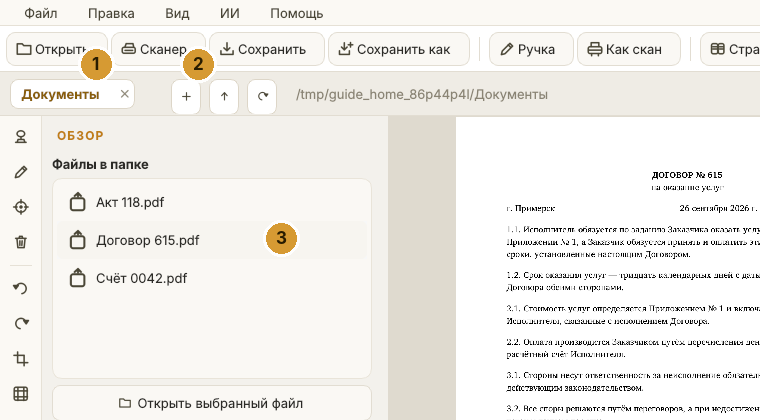
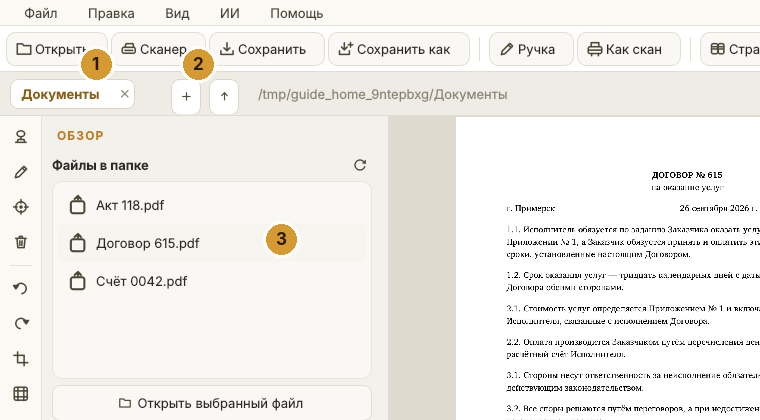
6.4.12: кнопка обновления списка файлов — в заголовке «Файлы в папке», стрелка по кругу без рамки
Claude-Session: https://claude.ai/code/session_01S2yJaDiaX6YUxFfadFNC79

diff --git a/stamp_studio_canon.py b/stamp_studio_canon.py
@@ -393,6 +393,9 @@ QListWidget#guidenav::item:selected { background: #2c3145; color: #e8b04b; }
 QListWidget#guidenav::item:hover { background: #232735; }
 QToolBar { padding: 4px 6px; spacing: 3px; }
 QToolBar QToolButton { min-height: 32px; max-height: 32px; padding: 0 6px; }
+QToolButton#ghost { background: transparent; border: none; border-radius: 12px; padding: 0; min-width: 0; min-height: 0; }
+QToolButton#ghost:hover { background: rgba(214, 154, 51, 0.22); }
+QToolButton#ghost:pressed { background: rgba(214, 154, 51, 0.40); }
 QPushButton#aiact { text-align: left; padding: 6px 12px; }
 QDialog#embedded { background: transparent; }
 QToolBar#tools { background: #171a22; border: none; border-right: 1px solid #262b39; padding: 6px 5px; spacing: 3px; }
@@ -465,6 +468,9 @@ QListWidget#guidenav::item:selected { background: #fbefd3; color: #8a5f0a; }
 QListWidget#guidenav::item:hover { background: #efeadf; }
 QToolBar { padding: 4px 6px; spacing: 3px; }
 QToolBar QToolButton { min-height: 32px; max-height: 32px; padding: 0 6px; }
+QToolButton#ghost { background: transparent; border: none; border-radius: 12px; padding: 0; min-width: 0; min-height: 0; }
+QToolButton#ghost:hover { background: rgba(214, 154, 51, 0.22); }
+QToolButton#ghost:pressed { background: rgba(214, 154, 51, 0.40); }
 QPushButton#aiact { text-align: left; padding: 6px 12px; }
 QDialog#embedded { background: transparent; }
 QToolBar#tools { background: #fbf9f4; border: none; border-right: 1px solid #e6e1d6; padding: 6px 5px; spacing: 3px; }
@@ -511,7 +517,7 @@ QProgressBar::chunk { background: #d69a33; border-radius: 3px; }
 SETTINGS_JSON = os.path.join(LIB_DIR, "settings.json")
 
 # ---------------------------------------------------------------- версия и обновления
-APP_VERSION = "6.4.11"
+APP_VERSION = "6.4.12"
 EDITION = "canon"                 # main — основная, canon — для сканеров Canon
 APP_TITLE = "Stamp Studio" + (" Canon" if EDITION == "canon" else "")
 GITHUB_URL = "https://github.com/alegawhats-del/StampStudio"
@@ -1567,6 +1573,15 @@ def draw_icon(kind: str, color: str, size: int = 64) -> QIcon:
             x1 = 8 + 4.2 * _m.cos(ang); y1 = 8 + 4.2 * _m.sin(ang)
             x2 = 8 + 5.8 * _m.cos(ang); y2 = 8 + 5.8 * _m.sin(ang)
             line(x1, y1, x2, y2)
+    elif kind == "refresh":
+        path = QPainterPath()
+        path.arcMoveTo(3.0 * u, 3.0 * u, 10.0 * u, 10.0 * u, 50)
+        path.arcTo(3.0 * u, 3.0 * u, 10.0 * u, 10.0 * u, 50, 290)
+        p.drawPath(path)
+        p.setBrush(QBrush(c))
+        p.setPen(Qt.NoPen)
+        p.drawPolygon([QPointF(13.9 * u, 2.6 * u), QPointF(13.9 * u, 7.0 * u), QPointF(9.7 * u, 6.2 * u)])
+        p.setBrush(Qt.NoBrush)
     elif kind == "rot_left":
         path = QPainterPath()
         path.moveTo(3.4 * u, 7.6 * u)
@@ -7528,15 +7543,6 @@ class MainWindow(QMainWindow):
         self._themed_buttons.append((b_up, "up", False))
         row.addWidget(b_up, 0)
 
-        b_ref = QPushButton()
-        b_ref.setFixedSize(30, 30)
-        b_ref.setToolTip("Обновить список файлов  (F5)\nСписок обновляется и сам, когда в папке что-то меняется")
-        b_ref.setIconSize(QSize(13, 13))
-        b_ref.setShortcut(QKeySequence("F5"))
-        b_ref.clicked.connect(lambda: self.reload_files(manual=True))
-        self._themed_buttons.append((b_ref, "rot_right", False))
-        row.addWidget(b_ref, 0)
-
         row.addSpacing(6)
         self.lbl_path = QLabel("")
         self.lbl_path.setObjectName("path")
@@ -7592,7 +7598,21 @@ class MainWindow(QMainWindow):
         tl.setContentsMargins(0, 0, 0, 0)
         tl.setSpacing(6)
         cap_files = QLabel("<b>Файлы в папке</b>")
-        tl.addWidget(cap_files)
+        cap_row = QHBoxLayout()
+        cap_row.setContentsMargins(0, 0, 2, 0)
+        cap_row.addWidget(cap_files, 1)
+        b_ref = QToolButton()
+        b_ref.setObjectName("ghost")
+        b_ref.setAutoRaise(True)
+        b_ref.setCursor(Qt.PointingHandCursor)
+        b_ref.setFixedSize(24, 24)
+        b_ref.setIconSize(QSize(16, 16))
+        b_ref.setToolTip("Обновить список файлов  (F5)\nСписок обновляется и сам, когда в папке что-то меняется")
+        b_ref.setShortcut(QKeySequence("F5"))
+        b_ref.clicked.connect(lambda: self.reload_files(manual=True))
+        self._themed_toolbtns.append((b_ref, "refresh"))
+        cap_row.addWidget(b_ref, 0)
+        tl.addLayout(cap_row)
 
         self.file_list = QListWidget()
         self.file_list.setAlternatingRowColors(True)

diff --git a/stamp_studio.py b/stamp_studio.py
@@ -393,6 +393,9 @@ QListWidget#guidenav::item:selected { background: #2c3145; color: #e8b04b; }
 QListWidget#guidenav::item:hover { background: #232735; }
 QToolBar { padding: 4px 6px; spacing: 3px; }
 QToolBar QToolButton { min-height: 32px; max-height: 32px; padding: 0 6px; }
+QToolButton#ghost { background: transparent; border: none; border-radius: 12px; padding: 0; min-width: 0; min-height: 0; }
+QToolButton#ghost:hover { background: rgba(214, 154, 51, 0.22); }
+QToolButton#ghost:pressed { background: rgba(214, 154, 51, 0.40); }
 QPushButton#aiact { text-align: left; padding: 6px 12px; }
 QDialog#embedded { background: transparent; }
 QToolBar#tools { background: #171a22; border: none; border-right: 1px solid #262b39; padding: 6px 5px; spacing: 3px; }
@@ -465,6 +468,9 @@ QListWidget#guidenav::item:selected { background: #fbefd3; color: #8a5f0a; }
 QListWidget#guidenav::item:hover { background: #efeadf; }
 QToolBar { padding: 4px 6px; spacing: 3px; }
 QToolBar QToolButton { min-height: 32px; max-height: 32px; padding: 0 6px; }
+QToolButton#ghost { background: transparent; border: none; border-radius: 12px; padding: 0; min-width: 0; min-height: 0; }
+QToolButton#ghost:hover { background: rgba(214, 154, 51, 0.22); }
+QToolButton#ghost:pressed { background: rgba(214, 154, 51, 0.40); }
 QPushButton#aiact { text-align: left; padding: 6px 12px; }
 QDialog#embedded { background: transparent; }
 QToolBar#tools { background: #fbf9f4; border: none; border-right: 1px solid #e6e1d6; padding: 6px 5px; spacing: 3px; }
@@ -511,7 +517,7 @@ QProgressBar::chunk { background: #d69a33; border-radius: 3px; }
 SETTINGS_JSON = os.path.join(LIB_DIR, "settings.json")
 
 # ---------------------------------------------------------------- версия и обновления
-APP_VERSION = "6.4.11"
+APP_VERSION = "6.4.12"
 EDITION = "main"                 # main — основная, canon — для сканеров Canon
 APP_TITLE = "Stamp Studio" + (" Canon" if EDITION == "canon" else "")
 GITHUB_URL = "https://github.com/alegawhats-del/StampStudio"
@@ -1567,6 +1573,15 @@ def draw_icon(kind: str, color: str, size: int = 64) -> QIcon:
             x1 = 8 + 4.2 * _m.cos(ang); y1 = 8 + 4.2 * _m.sin(ang)
             x2 = 8 + 5.8 * _m.cos(ang); y2 = 8 + 5.8 * _m.sin(ang)
             line(x1, y1, x2, y2)
+    elif kind == "refresh":
+        path = QPainterPath()
+        path.arcMoveTo(3.0 * u, 3.0 * u, 10.0 * u, 10.0 * u, 50)
+        path.arcTo(3.0 * u, 3.0 * u, 10.0 * u, 10.0 * u, 50, 290)
+        p.drawPath(path)
+        p.setBrush(QBrush(c))
+        p.setPen(Qt.NoPen)
+        p.drawPolygon([QPointF(13.9 * u, 2.6 * u), QPointF(13.9 * u, 7.0 * u), QPointF(9.7 * u, 6.2 * u)])
+        p.setBrush(Qt.NoBrush)
     elif kind == "rot_left":
         path = QPainterPath()
         path.moveTo(3.4 * u, 7.6 * u)
@@ -7529,15 +7544,6 @@ class MainWindow(QMainWindow):
         self._themed_buttons.append((b_up, "up", False))
         row.addWidget(b_up, 0)
 
-        b_ref = QPushButton()
-        b_ref.setFixedSize(30, 30)
-        b_ref.setToolTip("Обновить список файлов  (F5)\nСписок обновляется и сам, когда в папке что-то меняется")
-        b_ref.setIconSize(QSize(13, 13))
-        b_ref.setShortcut(QKeySequence("F5"))
-        b_ref.clicked.connect(lambda: self.reload_files(manual=True))
-        self._themed_buttons.append((b_ref, "rot_right", False))
-        row.addWidget(b_ref, 0)
-
         row.addSpacing(6)
         self.lbl_path = QLabel("")
         self.lbl_path.setObjectName("path")
@@ -7593,7 +7599,21 @@ class MainWindow(QMainWindow):
         tl.setContentsMargins(0, 0, 0, 0)
         tl.setSpacing(6)
         cap_files = QLabel("<b>Файлы в папке</b>")
-        tl.addWidget(cap_files)
+        cap_row = QHBoxLayout()
+        cap_row.setContentsMargins(0, 0, 2, 0)
+        cap_row.addWidget(cap_files, 1)
+        b_ref = QToolButton()
+        b_ref.setObjectName("ghost")
+        b_ref.setAutoRaise(True)
+        b_ref.setCursor(Qt.PointingHandCursor)
+        b_ref.setFixedSize(24, 24)
+        b_ref.setIconSize(QSize(16, 16))
+        b_ref.setToolTip("Обновить список файлов  (F5)\nСписок обновляется и сам, когда в папке что-то меняется")
+        b_ref.setShortcut(QKeySequence("F5"))
+        b_ref.clicked.connect(lambda: self.reload_files(manual=True))
+        self._themed_toolbtns.append((b_ref, "refresh"))
+        cap_row.addWidget(b_ref, 0)
+        tl.addLayout(cap_row)
 
         self.file_list = QListWidget()
         self.file_list.setAlternatingRowColors(True)

diff --git a/NOTES.md b/NOTES.md
@@ -1,3 +1,4 @@
+• Кнопка «Обновить список файлов» переехала в заголовок «Файлы в папке» — аккуратная стрелка по кругу, без рамки (F5 работает как раньше)
 • Окно «Вышла новая версия» больше не вылезает за экран: длинный список изменений прокручивается внутри
 • «Как скан» и «Разрезать на 2»: с фона стекла отретуширован волосок (тонкая изогнутая линия внизу листа); всё остальное на скане без изменений
 • Подсказка о порядке работы: проверку ИИ делайте до «Как скан», пока в документе настоящий текст — написано в окне «Как скан», в окне ИИ-помощника и в справке
